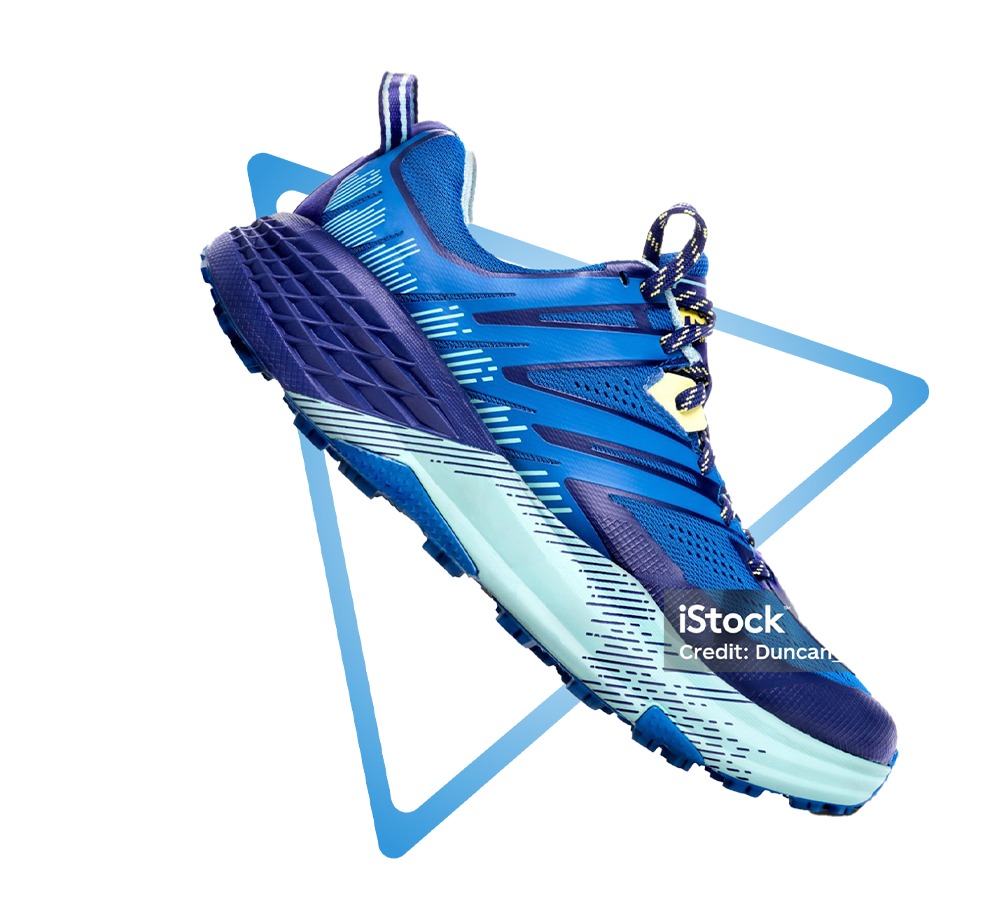
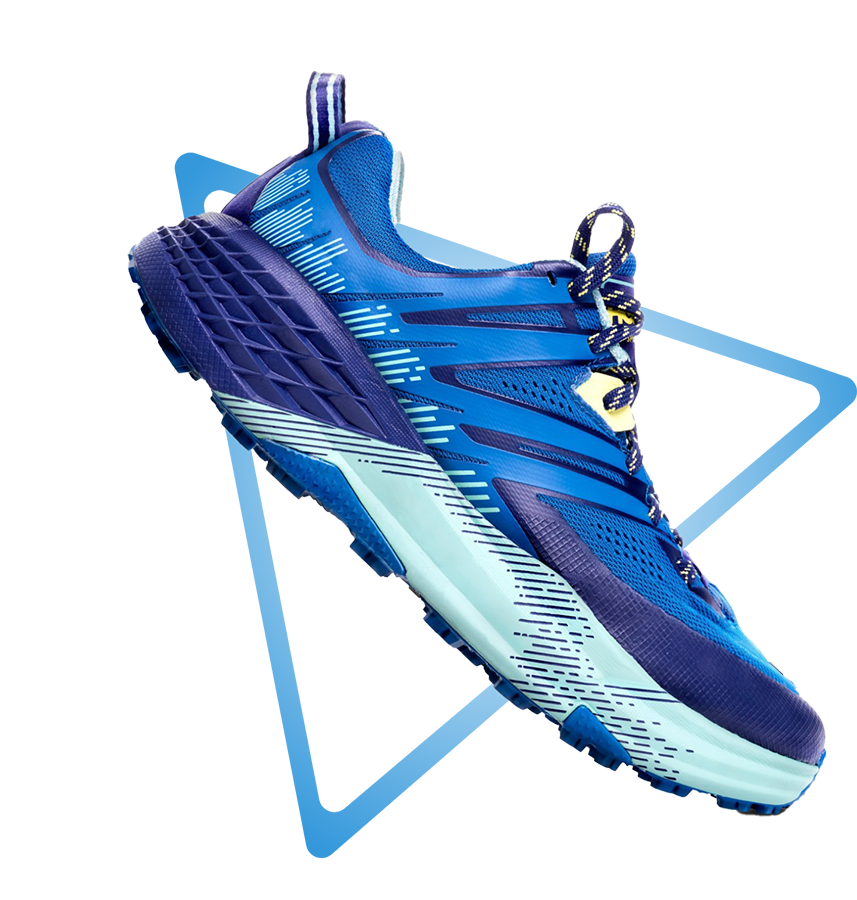
Fixed Seccion productos se ajusta el tamaño

Changed region(s): [[0.1517, 0.0622, 1.0, 0.9644], [0.4854, 0.6533, 0.5158, 0.6844]]

diff --git a/style.css b/style.css
@@ -152,7 +152,14 @@ canvas{
 /* Seccion Productos */
 .product {
   display: flex;
-  padding: 50px 20px;
+  padding: 50px 80px;
+  align-items: center;
+}
+
+.product.reverse {
+  display: flex;
+  flex-direction: row-reverse;
+  padding: 50px 80px;
   align-items: center;
 }
 
@@ -197,7 +204,7 @@ canvas{
 
 .product-img img {
   width: 100%;
-  max-width: 900px;
+  max-width: 750px;
   height: auto;
   margin: 0 auto;
 }

diff --git a/index.html b/index.html
@@ -62,7 +62,7 @@
       </div>
     </div>
 
-    <div class="product">
+    <div class="product reverse">
       <div class="product-img">
         <img src="/src/Zapato-2.png" alt="Producto 2">
       </div>
